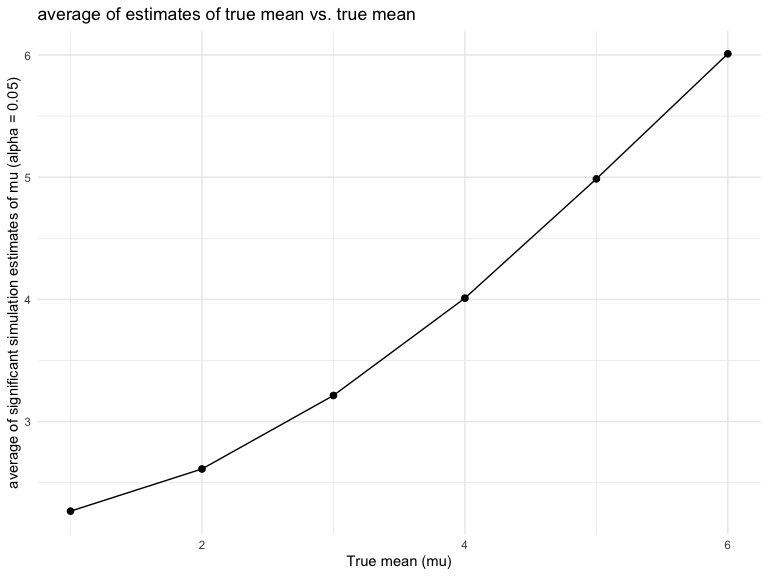
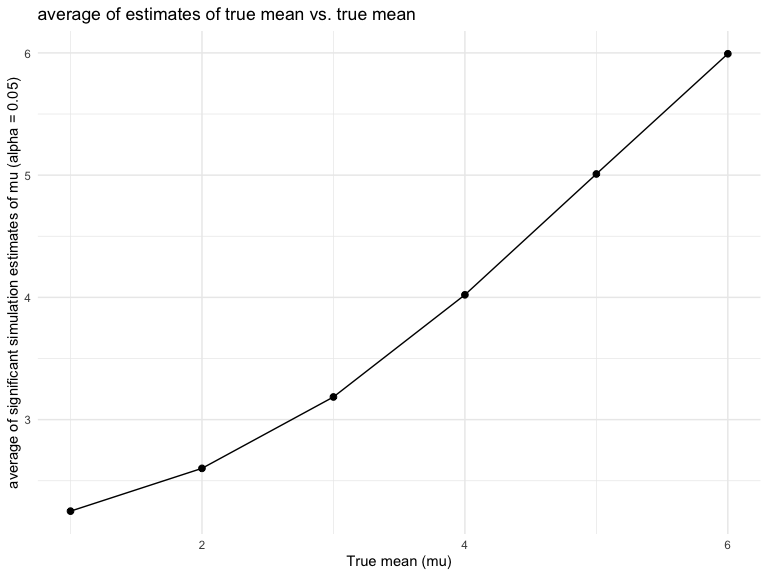
fixed a typo

diff --git a/p8105_hw5_zw2899.md b/p8105_hw5_zw2899.md
@@ -372,16 +372,16 @@ sim_results_at_0
     ## # A tibble: 5,000 × 4
     ##       mu  iter estimate p.value
     ##    <dbl> <int>    <dbl>   <dbl>
-    ##  1     0     1   0.744    0.368
-    ##  2     0     2  -0.0410   0.965
-    ##  3     0     3   0.711    0.495
-    ##  4     0     4  -1.21     0.153
-    ##  5     0     5   0.718    0.374
-    ##  6     0     6   0.999    0.355
-    ##  7     0     7  -0.887    0.406
-    ##  8     0     8   0.427    0.648
-    ##  9     0     9  -0.141    0.895
-    ## 10     0    10   0.837    0.437
+    ##  1     0     1  -1.38    0.0770
+    ##  2     0     2  -1.02    0.224 
+    ##  3     0     3   0.320   0.737 
+    ##  4     0     4   0.945   0.361 
+    ##  5     0     5   0.827   0.330 
+    ##  6     0     6  -0.0848  0.924 
+    ##  7     0     7  -0.144   0.868 
+    ##  8     0     8  -1.09    0.0887
+    ##  9     0     9   0.749   0.334 
+    ## 10     0    10   0.391   0.664 
     ## # … with 4,990 more rows
 
 Repeat the follows for $\mu = \{1,2,3,4,5,6\}$.
@@ -404,16 +404,16 @@ sim_results
     ## # A tibble: 30,000 × 4
     ##       mu  iter estimate p.value
     ##    <int> <int>    <dbl>   <dbl>
-    ##  1     1     1    0.372 0.675  
-    ##  2     1     2    0.966 0.293  
-    ##  3     1     3    0.506 0.582  
-    ##  4     1     4    3.22  0.00601
-    ##  5     1     5    3.66  0.00108
-    ##  6     1     6    0.217 0.829  
-    ##  7     1     7    1.25  0.125  
-    ##  8     1     8    2.00  0.0581 
-    ##  9     1     9    0.300 0.804  
-    ## 10     1    10    2.58  0.0332 
+    ##  1     1     1   1.06    0.170 
+    ##  2     1     2   1.89    0.0784
+    ##  3     1     3   0.556   0.541 
+    ##  4     1     4   0.801   0.445 
+    ##  5     1     5   0.606   0.490 
+    ##  6     1     6   0.912   0.397 
+    ##  7     1     7  -0.0840  0.928 
+    ##  8     1     8  -0.168   0.862 
+    ##  9     1     9   0.364   0.666 
+    ## 10     1    10   0.743   0.434 
     ## # … with 29,990 more rows
 
 Below is a plot showing the proportion of times the null was rejected
@@ -472,8 +472,8 @@ across tests for which the null was rejected does not approaximately
 equal to the true mean when the effect size is small (e.g., when
 $\mu = \{1,2,3\}$).
 
-But when the effect size is large ($\mu \leq 4$), the sample average of
-$\hat \mu$ across tests for which the null was rejected does
+But when the effect size is large, e.g., $\mu \geq 4$, the sample
+average of $\hat \mu$ across tests for which the null was rejected does
 approximately equal to the true mean.
 
 The reason for this discrepancy is the positive relationship of effect
